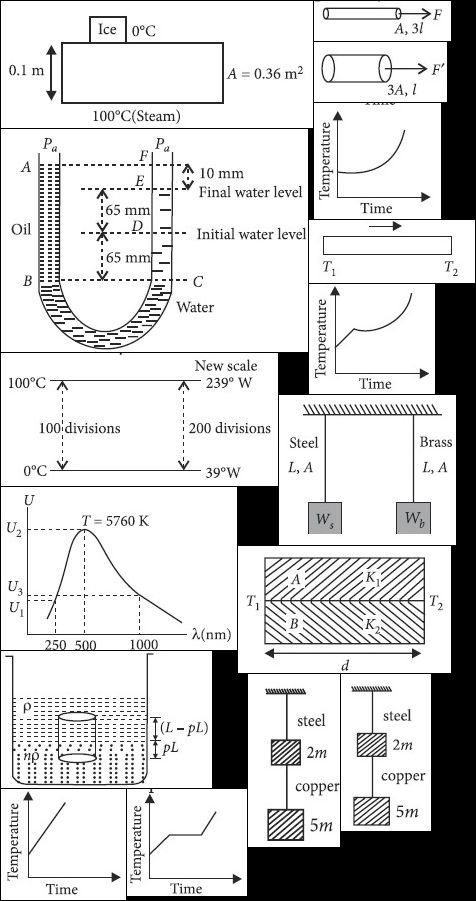
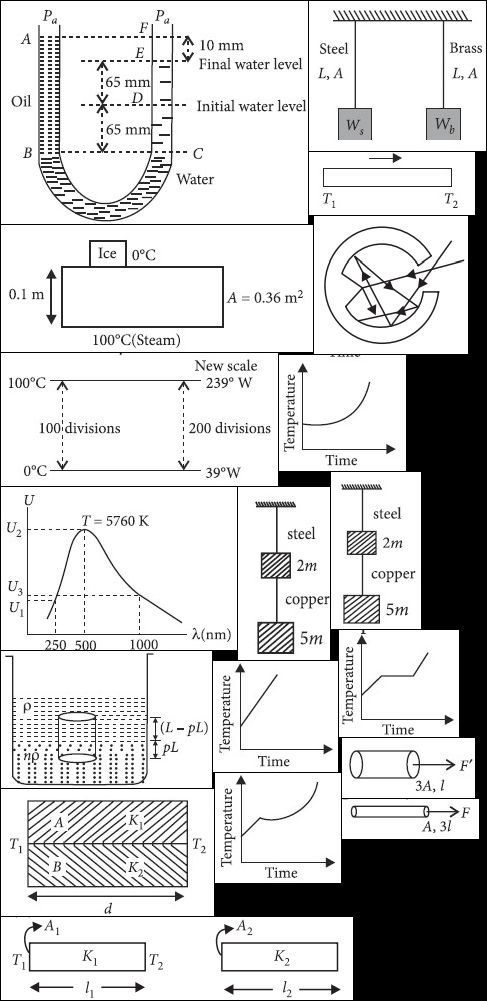
NEET images added.

diff --git a/img/medical/neet/phchap/ph_xi_ch9.css b/img/medical/neet/phchap/ph_xi_ch9.css
@@ -7,74 +7,89 @@ Responsive: <div class="yourspritesname"></div>
 */
 
 
+.Thermodynamics_17_s {max-width:239px; max-height:202px; }
+.Thermodynamics_17_s::after {content: '\00a0';display: inline-block; width:239px; height:202px; background-position: 0.37037037037037035% 14.882837238758707%;background-size: 212.97071129707112% 881.6831683168317%;background-image: url(ph_xi_ch9.jpg);padding: 0; }
+div.Thermodynamics_17_s::after {max-width:239px; width:100%;height:0;padding: 0 0 84.51882845188284% 0;}
+.Thermodynamics_30_s {max-width:181px; max-height:144px; }
+.Thermodynamics_30_s::after {content: '\00a0';display: inline-block; width:181px; height:144px; background-position: 46.951219512195124% 82.6511912034209%;background-size: 281.21546961325964% 1236.8055555555557%;background-image: url(ph_xi_ch9.jpg);padding: 0; }
+div.Thermodynamics_30_s::after {max-width:181px; width:100%;height:0;padding: 0 0 79.55801104972376% 0;}
+.Thermodynamics_64_s {max-width:193px; max-height:161px; }
+.Thermodynamics_64_s::after {content: '\00a0';display: inline-block; width:193px; height:161px; background-position: 56.64556962025316% 64.50617283950618%;background-size: 263.73056994818654% 1106.2111801242236%;background-image: url(ph_xi_ch9.jpg);padding: 0; }
+div.Thermodynamics_64_s::after {max-width:193px; width:100%;height:0;padding: 0 0 83.41968911917098% 0;}
+.Thermodynamics_75_s {max-width:199px; max-height:179px; }
+.Thermodynamics_75_s::after {content: '\00a0';display: inline-block; width:199px; height:179px; background-position: 77.74193548387096% 21.28589263420724%;background-size: 255.7788944723618% 994.9720670391062%;background-image: url(ph_xi_ch9.jpg);padding: 0; }
+div.Thermodynamics_75_s::after {max-width:199px; width:100%;height:0;padding: 0 0 89.94974874371859% 0;}
+.Thermodynamics_79_q {max-width:181px; max-height:191px; }
+.Thermodynamics_79_q::after {content: '\00a0';display: inline-block; width:181px; height:191px; background-position: 0.3048780487804878% 38.80503144654088%;background-size: 281.21546961325964% 932.4607329842931%;background-image: url(ph_xi_ch9.jpg);padding: 0; }
+div.Thermodynamics_79_q::after {max-width:181px; width:100%;height:0;padding: 0 0 105.52486187845304% 0;}
 .nt_ph_thermodyna_14_sol {max-width:157px; max-height:122px; }
-.nt_ph_thermodyna_14_sol::after {content: '\00a0';display: inline-block; width:157px; height:122px; background-position: 38.17663817663818% 97.14714714714715%;background-size: 323.5668789808917% 1191.8032786885246%;background-image: url(ph_xi_ch9.jpg);padding: 0; }
+.nt_ph_thermodyna_14_sol::after {content: '\00a0';display: inline-block; width:157px; height:122px; background-position: 99.43181818181819% 91.500904159132%;background-size: 324.20382165605093% 1459.8360655737704%;background-image: url(ph_xi_ch9.jpg);padding: 0; }
 div.nt_ph_thermodyna_14_sol::after {max-width:157px; width:100%;height:0;padding: 0 0 77.70700636942675% 0;}
 .nt_ph_thermodyna_17_sol {max-width:273px; max-height:233px; }
-.nt_ph_thermodyna_17_sol::after {content: '\00a0';display: inline-block; width:273px; height:233px; background-position: 0.425531914893617% 0.0819000819000819%;background-size: 186.08058608058607% 624.0343347639486%;background-image: url(ph_xi_ch9.jpg);padding: 0; }
+.nt_ph_thermodyna_17_sol::after {content: '\00a0';display: inline-block; width:273px; height:233px; background-position: 0.423728813559322% 0.06459948320413436%;background-size: 186.44688644688645% 764.3776824034335%;background-image: url(ph_xi_ch9.jpg);padding: 0; }
 div.nt_ph_thermodyna_17_sol::after {max-width:273px; width:100%;height:0;padding: 0 0 85.34798534798534% 0;}
 .nt_ph_thermodyna_21 {max-width:222px; max-height:146px; }
-.nt_ph_thermodyna_21::after {content: '\00a0';display: inline-block; width:222px; height:146px; background-position: 55.24475524475525% 66.13149847094802%;background-size: 228.82882882882882% 995.8904109589041%;background-image: url(ph_xi_ch9.jpg);padding: 0; }
+.nt_ph_thermodyna_21::after {content: '\00a0';display: inline-block; width:222px; height:146px; background-position: 44.250871080139376% 99.93883792048929%;background-size: 229.27927927927928% 1219.86301369863%;background-image: url(ph_xi_ch9.jpg);padding: 0; }
 div.nt_ph_thermodyna_21::after {max-width:222px; width:100%;height:0;padding: 0 0 65.76576576576576% 0;}
 .nt_ph_thermodyna_21_sol {max-width:177px; max-height:177px; }
-.nt_ph_thermodyna_21_sol::after {content: '\00a0';display: inline-block; width:177px; height:177px; background-position: 0.3021148036253776% 46.671887235708695%;background-size: 287.00564971751413% 821.4689265536723%;background-image: url(ph_xi_ch9.jpg);padding: 0; }
+.nt_ph_thermodyna_21_sol::after {content: '\00a0';display: inline-block; width:177px; height:177px; background-position: 0.30120481927710846% 61.78304239401496%;background-size: 287.57062146892656% 1006.2146892655368%;background-image: url(ph_xi_ch9.jpg);padding: 0; }
 div.nt_ph_thermodyna_21_sol::after {max-width:177px; width:100%;height:0;padding: 0 0 100% 0;}
 .nt_ph_thermodyna_22 {max-width:230px; max-height:165px; }
-.nt_ph_thermodyna_22::after {content: '\00a0';display: inline-block; width:230px; height:165px; background-position: 98.92086330935251% 13.576415826221877%;background-size: 220.8695652173913% 881.2121212121212%;background-image: url(ph_xi_ch9.jpg);padding: 0; }
+.nt_ph_thermodyna_22::after {content: '\00a0';display: inline-block; width:230px; height:165px; background-position: 98.5663082437276% 10.82920792079208%;background-size: 221.30434782608697% 1079.3939393939395%;background-image: url(ph_xi_ch9.jpg);padding: 0; }
 div.nt_ph_thermodyna_22::after {max-width:230px; width:100%;height:0;padding: 0 0 71.73913043478261% 0;}
 .nt_ph_thermodyna_22_sol {max-width:212px; max-height:163px; }
-.nt_ph_thermodyna_22_sol::after {content: '\00a0';display: inline-block; width:212px; height:163px; background-position: 60.472972972972975% 54.29899302865995%;background-size: 239.62264150943398% 892.0245398773006%;background-image: url(ph_xi_ch9.jpg);padding: 0; }
+.nt_ph_thermodyna_22_sol::after {content: '\00a0';display: inline-block; width:212px; height:163px; background-position: 60.26936026936027% 54.44993819530284%;background-size: 240.0943396226415% 1092.638036809816%;background-image: url(ph_xi_ch9.jpg);padding: 0; }
 div.nt_ph_thermodyna_22_sol::after {max-width:212px; width:100%;height:0;padding: 0 0 76.88679245283019% 0;}
 .nt_ph_thermodyna_24 {max-width:198px; max-height:178px; }
-.nt_ph_thermodyna_24::after {content: '\00a0';display: inline-block; width:198px; height:178px; background-position: 0.3225806451612903% 18.41692789968652%;background-size: 256.5656565656566% 816.8539325842696%;background-image: url(ph_xi_ch9.jpg);padding: 0; }
+.nt_ph_thermodyna_24::after {content: '\00a0';display: inline-block; width:198px; height:178px; background-position: 0.3215434083601286% 27.323767935121648%;background-size: 257.07070707070704% 1000.561797752809%;background-image: url(ph_xi_ch9.jpg);padding: 0; }
 div.nt_ph_thermodyna_24::after {max-width:198px; width:100%;height:0;padding: 0 0 89.8989898989899% 0;}
 .nt_ph_thermodyna_24_sol {max-width:177px; max-height:181px; }
-.nt_ph_thermodyna_24_sol::after {content: '\00a0';display: inline-block; width:177px; height:181px; background-position: 0.3021148036253776% 32.521602513747055%;background-size: 287.00564971751413% 803.3149171270718%;background-image: url(ph_xi_ch9.jpg);padding: 0; }
+.nt_ph_thermodyna_24_sol::after {content: '\00a0';display: inline-block; width:177px; height:181px; background-position: 0.30120481927710846% 50.5625%;background-size: 287.57062146892656% 983.9779005524862%;background-image: url(ph_xi_ch9.jpg);padding: 0; }
 div.nt_ph_thermodyna_24_sol::after {max-width:177px; width:100%;height:0;padding: 0 0 102.25988700564972% 0;}
 .nt_ph_thermodyna_26 {max-width:172px; max-height:135px; }
-.nt_ph_thermodyna_26::after {content: '\00a0';display: inline-block; width:172px; height:135px; background-position: 96.13095238095238% 90.97801364670205%;background-size: 295.3488372093023% 1077.037037037037%;background-image: url(ph_xi_ch9.jpg);padding: 0; }
+.nt_ph_thermodyna_26::after {content: '\00a0';display: inline-block; width:172px; height:135px; background-position: 99.70326409495549% 83.96111786148238%;background-size: 295.93023255813955% 1319.2592592592594%;background-image: url(ph_xi_ch9.jpg);padding: 0; }
 div.nt_ph_thermodyna_26::after {max-width:172px; width:100%;height:0;padding: 0 0 78.48837209302326% 0;}
 .nt_ph_thermodyna_26_sol {max-width:182px; max-height:145px; }
-.nt_ph_thermodyna_26_sol::after {content: '\00a0';display: inline-block; width:182px; height:145px; background-position: 47.239263803680984% 77.3109243697479%;background-size: 279.1208791208791% 1002.7586206896551%;background-image: url(ph_xi_ch9.jpg);padding: 0; }
+.nt_ph_thermodyna_26_sol::after {content: '\00a0';display: inline-block; width:182px; height:145px; background-position: 48.318042813455655% 73.77750611246944%;background-size: 279.6703296703297% 1228.2758620689656%;background-image: url(ph_xi_ch9.jpg);padding: 0; }
 div.nt_ph_thermodyna_26_sol::after {max-width:182px; width:100%;height:0;padding: 0 0 79.67032967032966% 0;}
 .nt_ph_thermodyna_27 {max-width:311px; max-height:171px; }
-.nt_ph_thermodyna_27::after {content: '\00a0';display: inline-block; width:311px; height:171px; background-position: 90.86294416243655% 41.23148869836321%;background-size: 163.34405144694534% 850.2923976608187%;background-image: url(ph_xi_ch9.jpg);padding: 0; }
+.nt_ph_thermodyna_27::after {content: '\00a0';display: inline-block; width:311px; height:171px; background-position: 92.42424242424242% 44.037267080745345%;background-size: 163.66559485530547% 1041.5204678362572%;background-image: url(ph_xi_ch9.jpg);padding: 0; }
 div.nt_ph_thermodyna_27::after {max-width:311px; width:100%;height:0;padding: 0 0 54.98392282958199% 0;}
 .nt_ph_thermodyna_27_sol {max-width:305px; max-height:187px; }
-.nt_ph_thermodyna_27_sol::after {content: '\00a0';display: inline-block; width:305px; height:187px; background-position: 98.52216748768473% 26.91397000789266%;background-size: 166.55737704918033% 777.5401069518716%;background-image: url(ph_xi_ch9.jpg);padding: 0; }
+.nt_ph_thermodyna_27_sol::after {content: '\00a0';display: inline-block; width:305px; height:187px; background-position: 98.03921568627452% 32.68506900878294%;background-size: 166.88524590163934% 952.4064171122994%;background-image: url(ph_xi_ch9.jpg);padding: 0; }
 div.nt_ph_thermodyna_27_sol::after {max-width:305px; width:100%;height:0;padding: 0 0 61.31147540983606% 0;}
 .nt_ph_thermodyna_30 {max-width:178px; max-height:135px; }
-.nt_ph_thermodyna_30::after {content: '\00a0';display: inline-block; width:178px; height:135px; background-position: 43.63636363636363% 87.79378316906748%;background-size: 285.39325842696627% 1077.037037037037%;background-image: url(ph_xi_ch9.jpg);padding: 0; }
+.nt_ph_thermodyna_30::after {content: '\00a0';display: inline-block; width:178px; height:135px; background-position: 43.50453172205438% 91.00850546780073%;background-size: 285.9550561797753% 1319.2592592592594%;background-image: url(ph_xi_ch9.jpg);padding: 0; }
 div.nt_ph_thermodyna_30::after {max-width:178px; width:100%;height:0;padding: 0 0 75.84269662921348% 0;}
 .nt_ph_thermodyna_30_sol {max-width:167px; max-height:136px; }
-.nt_ph_thermodyna_30_sol::after {content: '\00a0';display: inline-block; width:167px; height:136px; background-position: 98.82697947214076% 80.6525037936267%;background-size: 304.19161676646706% 1069.1176470588234%;background-image: url(ph_xi_ch9.jpg);padding: 0; }
+.nt_ph_thermodyna_30_sol::after {content: '\00a0';display: inline-block; width:167px; height:136px; background-position: 99.70760233918129% 75.6838905775076%;background-size: 304.79041916167665% 1309.5588235294117%;background-image: url(ph_xi_ch9.jpg);padding: 0; }
 div.nt_ph_thermodyna_30_sol::after {max-width:167px; width:100%;height:0;padding: 0 0 81.437125748503% 0;}
 .nt_ph_thermodyna_34 {max-width:156px; max-height:162px; }
-.nt_ph_thermodyna_34::after {content: '\00a0';display: inline-block; width:156px; height:162px; background-position: 0.2840909090909091% 59.907120743034056%;background-size: 325.64102564102564% 897.5308641975308%;background-image: url(ph_xi_ch9.jpg);padding: 0; }
+.nt_ph_thermodyna_34::after {content: '\00a0';display: inline-block; width:156px; height:162px; background-position: 0.28328611898017% 72.20506485484867%;background-size: 326.28205128205127% 1099.3827160493827%;background-image: url(ph_xi_ch9.jpg);padding: 0; }
 div.nt_ph_thermodyna_34::after {max-width:156px; width:100%;height:0;padding: 0 0 103.84615384615384% 0;}
 .nt_ph_thermodyna_34_sol {max-width:142px; max-height:143px; }
-.nt_ph_thermodyna_34_sol::after {content: '\00a0';display: inline-block; width:142px; height:143px; background-position: 0.273224043715847% 82.22730739893211%;background-size: 357.7464788732394% 1016.7832167832167%;background-image: url(ph_xi_ch9.jpg);padding: 0; }
+.nt_ph_thermodyna_34_sol::after {content: '\00a0';display: inline-block; width:142px; height:143px; background-position: 0.2724795640326976% 89.92673992673993%;background-size: 358.4507042253521% 1245.4545454545455%;background-image: url(ph_xi_ch9.jpg);padding: 0; }
 div.nt_ph_thermodyna_34_sol::after {max-width:142px; width:100%;height:0;padding: 0 0 100.70422535211267% 0;}
 .nt_ph_thermodyna_35a {max-width:123px; max-height:117px; }
-.nt_ph_thermodyna_35a::after {content: '\00a0';display: inline-block; width:123px; height:117px; background-position: 75.84415584415585% 99.92520568436798%;background-size: 413.0081300813008% 1242.7350427350427%;background-image: url(ph_xi_ch9.jpg);padding: 0; }
+.nt_ph_thermodyna_35a::after {content: '\00a0';display: inline-block; width:123px; height:117px; background-position: 90.67357512953367% 98.61778846153847%;background-size: 413.8211382113821% 1522.2222222222222%;background-image: url(ph_xi_ch9.jpg);padding: 0; }
 div.nt_ph_thermodyna_35a::after {max-width:123px; width:100%;height:0;padding: 0 0 95.1219512195122% 0;}
 .nt_ph_thermodyna_35b {max-width:111px; max-height:122px; }
-.nt_ph_thermodyna_35b::after {content: '\00a0';display: inline-block; width:111px; height:122px; background-position: 98.74055415617129% 52.627627627627625%;background-size: 457.65765765765764% 1191.8032786885246%;background-image: url(ph_xi_ch9.jpg);padding: 0; }
+.nt_ph_thermodyna_35b::after {content: '\00a0';display: inline-block; width:111px; height:122px; background-position: 98.49246231155779% 53.104279686558165%;background-size: 458.55855855855856% 1459.8360655737704%;background-image: url(ph_xi_ch9.jpg);padding: 0; }
 div.nt_ph_thermodyna_35b::after {max-width:111px; width:100%;height:0;padding: 0 0 109.90990990990991% 0;}
 .nt_ph_thermodyna_35c {max-width:115px; max-height:117px; }
-.nt_ph_thermodyna_35c::after {content: '\00a0';display: inline-block; width:115px; height:117px; background-position: 99.74554707379134% 61.63051608077786%;background-size: 441.7391304347826% 1242.7350427350427%;background-image: url(ph_xi_ch9.jpg);padding: 0; }
+.nt_ph_thermodyna_35c::after {content: '\00a0';display: inline-block; width:115px; height:117px; background-position: 99.49238578680203% 60.33653846153846%;background-size: 442.60869565217394% 1522.2222222222222%;background-image: url(ph_xi_ch9.jpg);padding: 0; }
 div.nt_ph_thermodyna_35c::after {max-width:115px; width:100%;height:0;padding: 0 0 101.73913043478261% 0;}
 .nt_ph_thermodyna_35d {max-width:125px; max-height:120px; }
-.nt_ph_thermodyna_35d::after {content: '\00a0';display: inline-block; width:125px; height:120px; background-position: 99.47780678851174% 70.61469265367316%;background-size: 406.4% 1211.6666666666667%;background-image: url(ph_xi_ch9.jpg);padding: 0; }
+.nt_ph_thermodyna_35d::after {content: '\00a0';display: inline-block; width:125px; height:120px; background-position: 0.2604166666666667% 97.35099337748345%;background-size: 407.2% 1484.1666666666667%;background-image: url(ph_xi_ch9.jpg);padding: 0; }
 div.nt_ph_thermodyna_35d::after {max-width:125px; width:100%;height:0;padding: 0 0 96% 0;}
 .nt_ph_thermodyna_36 {max-width:152px; max-height:140px; }
-.nt_ph_thermodyna_36::after {content: '\00a0';display: inline-block; width:152px; height:140px; background-position: 0.2808988764044944% 71.3089802130898%;background-size: 334.2105263157895% 1038.5714285714287%;background-image: url(ph_xi_ch9.jpg);padding: 0; }
+.nt_ph_thermodyna_36::after {content: '\00a0';display: inline-block; width:152px; height:140px; background-position: 0.2801120448179272% 81.17001828153565%;background-size: 334.86842105263156% 1272.142857142857%;background-image: url(ph_xi_ch9.jpg);padding: 0; }
 div.nt_ph_thermodyna_36::after {max-width:152px; width:100%;height:0;padding: 0 0 92.10526315789474% 0;}
 .nt_ph_thermodyna_5 {max-width:132px; max-height:122px; }
-.nt_ph_thermodyna_5::after {content: '\00a0';display: inline-block; width:132px; height:122px; background-position: 0.26595744680851063% 91.74174174174175%;background-size: 384.8484848484849% 1191.8032786885246%;background-image: url(ph_xi_ch9.jpg);padding: 0; }
+.nt_ph_thermodyna_5::after {content: '\00a0';display: inline-block; width:132px; height:122px; background-position: 98.93899204244032% 67.63110307414105%;background-size: 385.6060606060606% 1459.8360655737704%;background-image: url(ph_xi_ch9.jpg);padding: 0; }
 div.nt_ph_thermodyna_5::after {max-width:132px; width:100%;height:0;padding: 0 0 92.42424242424242% 0;}
 .nt_ph_thermodyna_8 {max-width:231px; max-height:173px; }
-.nt_ph_thermodyna_8::after {content: '\00a0';display: inline-block; width:231px; height:173px; background-position: 99.27797833935018% 0.078064012490242%;background-size: 219.91341991341992% 840.4624277456647%;background-image: url(ph_xi_ch9.jpg);padding: 0; }
+.nt_ph_thermodyna_8::after {content: '\00a0';display: inline-block; width:231px; height:173px; background-position: 98.92086330935251% 0.06218905472636816%;background-size: 220.34632034632034% 1029.4797687861271%;background-image: url(ph_xi_ch9.jpg);padding: 0; }
 div.nt_ph_thermodyna_8::after {max-width:231px; width:100%;height:0;padding: 0 0 74.89177489177489% 0;}
 
-/* $TexturePacker:SmartUpdate:9e34a2ed228e762dc33110a277b67347:e5d080bda3b266668cb783eddbc1c0b4:ce2b3bc1b8a21ba655383df3aef6835f$ */
+/* $TexturePacker:SmartUpdate:bfd0751537ff99cddcda55aa23b79e06:4d9d7867e849910a01fe2be19a704f5d:ce2b3bc1b8a21ba655383df3aef6835f$ */

diff --git a/img/medical/neet/phchap/ph_xi_ch8.css b/img/medical/neet/phchap/ph_xi_ch8.css
@@ -7,53 +7,59 @@ Responsive: <div class="yourspritesname"></div>
 */
 
 
+.Pro_Mat_55_s {max-width:352px; max-height:83px; }
+.Pro_Mat_55_s::after {content: '\00a0';display: inline-block; width:352px; height:83px; background-position: 0.7407407407407407% 99.89106753812636%;background-size: 138.35227272727272% 1206.0240963855422%;background-image: url(ph_xi_ch8.jpg);padding: 0; }
+div.Pro_Mat_55_s::after {max-width:352px; width:100%;height:0;padding: 0 0 23.579545454545453% 0;}
+.Pro_Mat_57_s {max-width:154px; max-height:138px; }
+.Pro_Mat_57_s::after {content: '\00a0';display: inline-block; width:154px; height:138px; background-position: 94.29429429429429% 25.02896871378911%;background-size: 316.23376623376623% 725.3623188405797%;background-image: url(ph_xi_ch8.jpg);padding: 0; }
+div.Pro_Mat_57_s::after {max-width:154px; width:100%;height:0;padding: 0 0 89.6103896103896% 0;}
 .nt_ph_prop_mat_10 {max-width:213px; max-height:127px; }
-.nt_ph_prop_mat_10::after {content: '\00a0';display: inline-block; width:213px; height:127px; background-position: 90.49429657794677% 70.54263565891473%;background-size: 223.47417840375587% 709.4488188976378%;background-image: url(ph_xi_ch8.jpg);padding: 0; }
+.nt_ph_prop_mat_10::after {content: '\00a0';display: inline-block; width:213px; height:127px; background-position: 0.36496350364963503% 90.2745995423341%;background-size: 228.63849765258215% 788.1889763779527%;background-image: url(ph_xi_ch8.jpg);padding: 0; }
 div.nt_ph_prop_mat_10::after {max-width:213px; width:100%;height:0;padding: 0 0 59.624413145539904% 0;}
 .nt_ph_prop_mat_12 {max-width:307px; max-height:223px; }
-.nt_ph_prop_mat_12::after {content: '\00a0';display: inline-block; width:307px; height:223px; background-position: 0.591715976331361% 19.02654867256637%;background-size: 155.04885993485343% 404.0358744394619%;background-image: url(ph_xi_ch8.jpg);padding: 0; }
+.nt_ph_prop_mat_12::after {content: '\00a0';display: inline-block; width:307px; height:223px; background-position: 0.5555555555555556% 0.12853470437017994%;background-size: 158.63192182410424% 448.8789237668162%;background-image: url(ph_xi_ch8.jpg);padding: 0; }
 div.nt_ph_prop_mat_12::after {max-width:307px; width:100%;height:0;padding: 0 0 72.63843648208469% 0;}
 .nt_ph_prop_mat_20_sol {max-width:236px; max-height:163px; }
-.nt_ph_prop_mat_20_sol::after {content: '\00a0';display: inline-block; width:236px; height:163px; background-position: 0.4166666666666667% 65.98915989159892%;background-size: 201.6949152542373% 552.760736196319%;background-image: url(ph_xi_ch8.jpg);padding: 0; }
+.nt_ph_prop_mat_20_sol::after {content: '\00a0';display: inline-block; width:236px; height:163px; background-position: 0.398406374501992% 58.114558472553696%;background-size: 206.35593220338984% 614.1104294478528%;background-image: url(ph_xi_ch8.jpg);padding: 0; }
 div.nt_ph_prop_mat_20_sol::after {max-width:236px; width:100%;height:0;padding: 0 0 69.0677966101695% 0;}
 .nt_ph_prop_mat_21_sol {max-width:211px; max-height:137px; }
-.nt_ph_prop_mat_21_sol::after {content: '\00a0';display: inline-block; width:211px; height:137px; background-position: 0.37735849056603776% 85.20942408376963%;background-size: 225.59241706161137% 657.6642335766423%;background-image: url(ph_xi_ch8.jpg);padding: 0; }
+.nt_ph_prop_mat_21_sol::after {content: '\00a0';display: inline-block; width:211px; height:137px; background-position: 0.36231884057971014% 75.34722222222223%;background-size: 230.80568720379148% 730.6569343065694%;background-image: url(ph_xi_ch8.jpg);padding: 0; }
 div.nt_ph_prop_mat_21_sol::after {max-width:211px; width:100%;height:0;padding: 0 0 64.92890995260663% 0;}
 .nt_ph_prop_mat_25_sol {max-width:177px; max-height:150px; }
-.nt_ph_prop_mat_25_sol::after {content: '\00a0';display: inline-block; width:177px; height:150px; background-position: 93.31103678929766% 52.5965379494008%;background-size: 268.9265536723164% 600.6666666666666%;background-image: url(ph_xi_ch8.jpg);padding: 0; }
+.nt_ph_prop_mat_25_sol::after {content: '\00a0';display: inline-block; width:177px; height:150px; background-position: 99.6774193548387% 0.11750881316098707%;background-size: 275.1412429378531% 667.3333333333334%;background-image: url(ph_xi_ch8.jpg);padding: 0; }
 div.nt_ph_prop_mat_25_sol::after {max-width:177px; width:100%;height:0;padding: 0 0 84.7457627118644% 0;}
 .nt_ph_prop_mat_36 {max-width:90px; max-height:157px; }
-.nt_ph_prop_mat_36::after {content: '\00a0';display: inline-block; width:90px; height:157px; background-position: 88.34196891191709% 90.59139784946237%;background-size: 528.8888888888889% 573.8853503184713%;background-image: url(ph_xi_ch8.jpg);padding: 0; }
+.nt_ph_prop_mat_36::after {content: '\00a0';display: inline-block; width:90px; height:157px; background-position: 83.37531486146096% 55.92417061611374%;background-size: 541.1111111111111% 637.5796178343949%;background-image: url(ph_xi_ch8.jpg);padding: 0; }
 div.nt_ph_prop_mat_36::after {max-width:90px; width:100%;height:0;padding: 0 0 174.44444444444446% 0;}
 .nt_ph_prop_mat_36_sol {max-width:92px; max-height:173px; }
-.nt_ph_prop_mat_36_sol::after {content: '\00a0';display: inline-block; width:92px; height:173px; background-position: 64.58333333333333% 92.58241758241758%;background-size: 517.3913043478261% 520.8092485549133%;background-image: url(ph_xi_ch8.jpg);padding: 0; }
+.nt_ph_prop_mat_36_sol::after {content: '\00a0';display: inline-block; width:92px; height:173px; background-position: 60.25316455696203% 58.81642512077295%;background-size: 529.3478260869565% 578.6127167630058%;background-image: url(ph_xi_ch8.jpg);padding: 0; }
 div.nt_ph_prop_mat_36_sol::after {max-width:92px; width:100%;height:0;padding: 0 0 188.04347826086956% 0;}
 .nt_ph_prop_mat_41a {max-width:120px; max-height:107px; }
-.nt_ph_prop_mat_41a::after {content: '\00a0';display: inline-block; width:120px; height:107px; background-position: 35.674157303370784% 99.37027707808564%;background-size: 396.6666666666667% 842.0560747663551%;background-image: url(ph_xi_ch8.jpg);padding: 0; }
+.nt_ph_prop_mat_41a::after {content: '\00a0';display: inline-block; width:120px; height:107px; background-position: 92.37057220708446% 70.46979865771812%;background-size: 405.8333333333333% 935.5140186915888%;background-image: url(ph_xi_ch8.jpg);padding: 0; }
 div.nt_ph_prop_mat_41a::after {max-width:120px; width:100%;height:0;padding: 0 0 89.16666666666667% 0;}
 .nt_ph_prop_mat_41b {max-width:126px; max-height:110px; }
-.nt_ph_prop_mat_41b::after {content: '\00a0';display: inline-block; width:126px; height:110px; background-position: 88.28571428571429% 35.903919089759796%;background-size: 377.77777777777777% 819.0909090909091%;background-image: url(ph_xi_ch8.jpg);padding: 0; }
+.nt_ph_prop_mat_41b::after {content: '\00a0';display: inline-block; width:126px; height:110px; background-position: 59.556786703601105% 86.75645342312009%;background-size: 386.5079365079365% 910%;background-image: url(ph_xi_ch8.jpg);padding: 0; }
 div.nt_ph_prop_mat_41b::after {max-width:126px; width:100%;height:0;padding: 0 0 87.3015873015873% 0;}
 .nt_ph_prop_mat_41c {max-width:125px; max-height:111px; }
-.nt_ph_prop_mat_41c::after {content: '\00a0';display: inline-block; width:125px; height:111px; background-position: 0.2849002849002849% 99.87341772151899%;background-size: 380.8% 811.7117117117117%;background-image: url(ph_xi_ch8.jpg);padding: 0; }
+.nt_ph_prop_mat_41c::after {content: '\00a0';display: inline-block; width:125px; height:111px; background-position: 58.83977900552486% 74.26966292134831%;background-size: 389.6% 901.8018018018018%;background-image: url(ph_xi_ch8.jpg);padding: 0; }
 div.nt_ph_prop_mat_41c::after {max-width:125px; width:100%;height:0;padding: 0 0 88.8% 0;}
 .nt_ph_prop_mat_41d {max-width:127px; max-height:116px; }
-.nt_ph_prop_mat_41d::after {content: '\00a0';display: inline-block; width:127px; height:116px; background-position: 89.97134670487107% 13.121019108280255%;background-size: 374.8031496062992% 776.7241379310345%;background-image: url(ph_xi_ch8.jpg);padding: 0; }
+.nt_ph_prop_mat_41d::after {content: '\00a0';display: inline-block; width:127px; height:116px; background-position: 77.5% 40.112994350282484%;background-size: 383.46456692913387% 862.9310344827586%;background-image: url(ph_xi_ch8.jpg);padding: 0; }
 div.nt_ph_prop_mat_41d::after {max-width:127px; width:100%;height:0;padding: 0 0 91.33858267716535% 0;}
 .nt_ph_prop_mat_42_sol {max-width:312px; max-height:127px; }
-.nt_ph_prop_mat_42_sol::after {content: '\00a0';display: inline-block; width:312px; height:127px; background-position: 0.6097560975609756% 0.12919896640826872%;background-size: 152.56410256410257% 709.4488188976378%;background-image: url(ph_xi_ch8.jpg);padding: 0; }
+.nt_ph_prop_mat_42_sol::after {content: '\00a0';display: inline-block; width:312px; height:127px; background-position: 0.5714285714285714% 25.74370709382151%;background-size: 156.0897435897436% 788.1889763779527%;background-image: url(ph_xi_ch8.jpg);padding: 0; }
 div.nt_ph_prop_mat_42_sol::after {max-width:312px; width:100%;height:0;padding: 0 0 40.705128205128204% 0;}
 .nt_ph_prop_mat_47_sol {max-width:166px; max-height:63px; }
-.nt_ph_prop_mat_47_sol::after {content: '\00a0';display: inline-block; width:166px; height:63px; background-position: 99.6774193548387% 26.252983293556085%;background-size: 286.7469879518072% 1430.1587301587301%;background-image: url(ph_xi_ch8.jpg);padding: 0; }
+.nt_ph_prop_mat_47_sol::after {content: '\00a0';display: inline-block; width:166px; height:63px; background-position: 96.26168224299066% 16.204690831556505%;background-size: 293.3734939759036% 1588.888888888889%;background-image: url(ph_xi_ch8.jpg);padding: 0; }
 div.nt_ph_prop_mat_47_sol::after {max-width:166px; width:100%;height:0;padding: 0 0 37.95180722891566% 0;}
 .nt_ph_prop_mat_48_sol {max-width:277px; max-height:133px; }
-.nt_ph_prop_mat_48_sol::after {content: '\00a0';display: inline-block; width:277px; height:133px; background-position: 0.5025125628140703% 45.963541666666664%;background-size: 171.84115523465704% 677.4436090225564%;background-image: url(ph_xi_ch8.jpg);padding: 0; }
+.nt_ph_prop_mat_48_sol::after {content: '\00a0';display: inline-block; width:277px; height:133px; background-position: 0.47619047619047616% 40.66820276497696%;background-size: 175.81227436823104% 752.6315789473684%;background-image: url(ph_xi_ch8.jpg);padding: 0; }
 div.nt_ph_prop_mat_48_sol::after {max-width:277px; width:100%;height:0;padding: 0 0 48.014440433213% 0;}
 .nt_ph_prop_mat_8_sol_a {max-width:137px; max-height:40px; }
-.nt_ph_prop_mat_8_sol_a::after {content: '\00a0';display: inline-block; width:137px; height:40px; background-position: 92.62536873156343% 0.11614401858304298%;background-size: 347.44525547445255% 2252.5%;background-image: url(ph_xi_ch8.jpg);padding: 0; }
+.nt_ph_prop_mat_8_sol_a::after {content: '\00a0';display: inline-block; width:137px; height:40px; background-position: 97.71428571428571% 83.14255983350677%;background-size: 355.4744525547445% 2502.5%;background-image: url(ph_xi_ch8.jpg);padding: 0; }
 div.nt_ph_prop_mat_8_sol_a::after {max-width:137px; width:100%;height:0;padding: 0 0 29.197080291970803% 0;}
 .nt_ph_prop_mat_8_sol_b {max-width:133px; max-height:60px; }
-.nt_ph_prop_mat_8_sol_b::after {content: '\00a0';display: inline-block; width:133px; height:60px; background-position: 91.54518950437318% 4.9940546967895365%;background-size: 357.89473684210526% 1501.6666666666667%;background-image: url(ph_xi_ch8.jpg);padding: 0; }
+.nt_ph_prop_mat_8_sol_b::after {content: '\00a0';display: inline-block; width:133px; height:60px; background-position: 96.61016949152543% 78.42720510095643%;background-size: 366.16541353383457% 1668.3333333333333%;background-image: url(ph_xi_ch8.jpg);padding: 0; }
 div.nt_ph_prop_mat_8_sol_b::after {max-width:133px; width:100%;height:0;padding: 0 0 45.11278195488722% 0;}
 
-/* $TexturePacker:SmartUpdate:01857799d80c5f619b554610bb6e3d09:5506af4ad37979b8f7e73103504736e9:8926c8c5cb7d128d995948f0b0efea46$ */
+/* $TexturePacker:SmartUpdate:34ea61421233f557e09e313855ea92f7:4fc8bc2a3dafca62fb2bedd631a84162:8926c8c5cb7d128d995948f0b0efea46$ */

diff --git a/img/medical/neet/phchap/ph_xi_ch10.css b/img/medical/neet/phchap/ph_xi_ch10.css
@@ -1,0 +1,59 @@
+/*
+-------------------------------------------------------------------
+Created with TexturePacker https://www.codeandweb.com/texturepacker
+-------------------------------------------------------------------
+Inline:     <i class="yourspritesname"></i>
+Responsive: <div class="yourspritesname"></div>
+*/
+
+
+.Oscillations_14_s {max-width:378px; max-height:174px; }
+.Oscillations_14_s::after {content: '\00a0';display: inline-block; width:378px; height:174px; background-position: 57.09281961471103% 0.3184713375796178%;background-size: 251.05820105820106% 280.4597701149425%;background-image: url(ph_xi_ch10.jpg);padding: 0; }
+div.Oscillations_14_s::after {max-width:378px; width:100%;height:0;padding: 0 0 46.03174603174603% 0;}
+.Oscillations_21_q {max-width:122px; max-height:177px; }
+.Oscillations_21_q::after {content: '\00a0';display: inline-block; width:122px; height:177px; background-position: 32.769044740024185% 61.41479099678457%;background-size: 777.8688524590164% 275.70621468926555%;background-image: url(ph_xi_ch10.jpg);padding: 0; }
+div.Oscillations_21_q::after {max-width:122px; width:100%;height:0;padding: 0 0 145.08196721311475% 0;}
+.Oscillations_21_s {max-width:370px; max-height:118px; }
+.Oscillations_21_s::after {content: '\00a0';display: inline-block; width:370px; height:118px; background-position: 53.02245250431779% 99.72972972972973%;background-size: 256.4864864864865% 413.5593220338983%;background-image: url(ph_xi_ch10.jpg);padding: 0; }
+div.Oscillations_21_s::after {max-width:370px; width:100%;height:0;padding: 0 0 31.89189189189189% 0;}
+.Oscillations_24_s {max-width:223px; max-height:105px; }
+.Oscillations_24_s::after {content: '\00a0';display: inline-block; width:223px; height:105px; background-position: 97.10743801652893% 0.26109660574412535%;background-size: 425.56053811659194% 464.76190476190476%;background-image: url(ph_xi_ch10.jpg);padding: 0; }
+div.Oscillations_24_s::after {max-width:223px; width:100%;height:0;padding: 0 0 47.08520179372197% 0;}
+.Oscillations_28_s {max-width:183px; max-height:203px; }
+.Oscillations_28_s::after {content: '\00a0';display: inline-block; width:183px; height:203px; background-position: 0.13054830287206268% 0.3508771929824561%;background-size: 518.5792349726776% 240.39408866995075%;background-image: url(ph_xi_ch10.jpg);padding: 0; }
+div.Oscillations_28_s::after {max-width:183px; width:100%;height:0;padding: 0 0 110.92896174863388% 0;}
+.Oscillations_30_o_1 {max-width:122px; max-height:81px; }
+.Oscillations_30_o_1::after {content: '\00a0';display: inline-block; width:122px; height:81px; background-position: 57.43651753325272% 69.28746928746929%;background-size: 777.8688524590164% 602.4691358024692%;background-image: url(ph_xi_ch10.jpg);padding: 0; }
+div.Oscillations_30_o_1::after {max-width:122px; width:100%;height:0;padding: 0 0 66.39344262295081% 0;}
+.Oscillations_30_o_2 {max-width:103px; max-height:84px; }
+.Oscillations_30_o_2::after {content: '\00a0';display: inline-block; width:103px; height:84px; background-position: 96.21749408983452% 98.76237623762377%;background-size: 921.3592233009708% 580.952380952381%;background-image: url(ph_xi_ch10.jpg);padding: 0; }
+div.Oscillations_30_o_2::after {max-width:103px; width:100%;height:0;padding: 0 0 81.55339805825243% 0;}
+.Oscillations_30_o_3 {max-width:134px; max-height:70px; }
+.Oscillations_30_o_3::after {content: '\00a0';display: inline-block; width:134px; height:70px; background-position: 99.87730061349693% 78.4688995215311%;background-size: 708.2089552238806% 697.1428571428571%;background-image: url(ph_xi_ch10.jpg);padding: 0; }
+div.Oscillations_30_o_3::after {max-width:134px; width:100%;height:0;padding: 0 0 52.23880597014925% 0;}
+.Oscillations_30_o_4 {max-width:123px; max-height:65px; }
+.Oscillations_30_o_4::after {content: '\00a0';display: inline-block; width:123px; height:65px; background-position: 85.35108958837772% 25.29550827423168%;background-size: 771.5447154471544% 750.7692307692307%;background-image: url(ph_xi_ch10.jpg);padding: 0; }
+div.Oscillations_30_o_4::after {max-width:123px; width:100%;height:0;padding: 0 0 52.84552845528455% 0;}
+.Oscillations_33_s {max-width:305px; max-height:85px; }
+.Oscillations_33_s::after {content: '\00a0';display: inline-block; width:305px; height:85px; background-position: 0.15527950310559005% 99.0074441687345%;background-size: 311.1475409836066% 574.1176470588235%;background-image: url(ph_xi_ch10.jpg);padding: 0; }
+div.Oscillations_33_s::after {max-width:305px; width:100%;height:0;padding: 0 0 27.868852459016395% 0;}
+.Oscillations_35_q {max-width:135px; max-height:149px; }
+.Oscillations_35_q::after {content: '\00a0';display: inline-block; width:135px; height:149px; background-position: 83.29238329238329% 96.7551622418879%;background-size: 702.9629629629629% 327.51677852348996%;background-image: url(ph_xi_ch10.jpg);padding: 0; }
+div.Oscillations_35_q::after {max-width:135px; width:100%;height:0;padding: 0 0 110.37037037037037% 0;}
+.Oscillations_35_s {max-width:80px; max-height:172px; }
+.Oscillations_35_s::after {content: '\00a0';display: inline-block; width:80px; height:172px; background-position: 45.339470655926355% 55.69620253164557%;background-size: 1186.25% 283.72093023255815%;background-image: url(ph_xi_ch10.jpg);padding: 0; }
+div.Oscillations_35_s::after {max-width:80px; width:100%;height:0;padding: 0 0 215% 0;}
+.Oscillations_35_s_1 {max-width:266px; max-height:151px; }
+.Oscillations_35_s_1::after {content: '\00a0';display: inline-block; width:266px; height:151px; background-position: 99.26793557833089% 52.225519287833826%;background-size: 356.76691729323306% 323.1788079470199%;background-image: url(ph_xi_ch10.jpg);padding: 0; }
+div.Oscillations_35_s_1::after {max-width:266px; width:100%;height:0;padding: 0 0 56.766917293233085% 0;}
+.Oscillations_38_s {max-width:140px; max-height:189px; }
+.Oscillations_38_s::after {content: '\00a0';display: inline-block; width:140px; height:189px; background-position: 22.867737948084056% 0.33444816053511706%;background-size: 677.8571428571429% 258.2010582010582%;background-image: url(ph_xi_ch10.jpg);padding: 0; }
+div.Oscillations_38_s::after {max-width:140px; width:100%;height:0;padding: 0 0 135% 0;}
+.Oscillations_45_q {max-width:269px; max-height:193px; }
+.Oscillations_45_q::after {content: '\00a0';display: inline-block; width:269px; height:193px; background-position: 0.14705882352941177% 69.49152542372882%;background-size: 352.7881040892193% 252.84974093264248%;background-image: url(ph_xi_ch10.jpg);padding: 0; }
+div.Oscillations_45_q::after {max-width:269px; width:100%;height:0;padding: 0 0 71.74721189591078% 0;}
+.Oscillations_47_q {max-width:181px; max-height:105px; }
+.Oscillations_47_q::after {content: '\00a0';display: inline-block; width:181px; height:105px; background-position: 61.848958333333336% 45.95300261096606%;background-size: 524.3093922651934% 464.76190476190476%;background-image: url(ph_xi_ch10.jpg);padding: 0; }
+div.Oscillations_47_q::after {max-width:181px; width:100%;height:0;padding: 0 0 58.011049723756905% 0;}
+
+/* $TexturePacker:SmartUpdate:97a96e04508468c978765585f4a4f4e9:d9c2013fc12552bb578d541e76258a34:37e11ad9e2be15d392c01e4b113eb268$ */

diff --git a/img/medical/neet/phchap/ph_xi_ch11.css b/img/medical/neet/phchap/ph_xi_ch11.css
@@ -1,0 +1,29 @@
+/*
+-------------------------------------------------------------------
+Created with TexturePacker https://www.codeandweb.com/texturepacker
+-------------------------------------------------------------------
+Inline:     <i class="yourspritesname"></i>
+Responsive: <div class="yourspritesname"></div>
+*/
+
+
+.Waves_20_s {max-width:320px; max-height:116px; }
+.Waves_20_s::after {content: '\00a0';display: inline-block; width:320px; height:116px; background-position: 4.761904761904762% 46.2962962962963%;background-size: 106.5625% 612.0689655172414%;background-image: url(ph_xi_ch11.jpg);padding: 0; }
+div.Waves_20_s::after {max-width:320px; width:100%;height:0;padding: 0 0 36.25% 0;}
+.Waves_21_s {max-width:217px; max-height:97px; }
+.Waves_21_s::after {content: '\00a0';display: inline-block; width:217px; height:97px; background-position: 0.8064516129032258% 99.836867862969%;background-size: 157.14285714285714% 731.9587628865979%;background-image: url(ph_xi_ch11.jpg);padding: 0; }
+div.Waves_21_s::after {max-width:217px; width:100%;height:0;padding: 0 0 44.70046082949309% 0;}
+.Waves_30_s {max-width:339px; max-height:191px; }
+.Waves_30_s::after {content: '\00a0';display: inline-block; width:339px; height:191px; background-position: 50% 0.1926782273603083%;background-size: 100.58997050147492% 371.72774869109946%;background-image: url(ph_xi_ch11.jpg);padding: 0; }
+div.Waves_30_s::after {max-width:339px; width:100%;height:0;padding: 0 0 56.342182890855455% 0;}
+.Waves_46_s {max-width:302px; max-height:155px; }
+.Waves_46_s::after {content: '\00a0';display: inline-block; width:302px; height:155px; background-position: 2.5641025641025643% 82.16216216216216%;background-size: 112.91390728476821% 458.06451612903226%;background-image: url(ph_xi_ch11.jpg);padding: 0; }
+div.Waves_46_s::after {max-width:302px; width:100%;height:0;padding: 0 0 51.324503311258276% 0;}
+.Waves_57_s {max-width:304px; max-height:63px; }
+.Waves_57_s::after {content: '\00a0';display: inline-block; width:304px; height:63px; background-position: 2.7027027027027026% 60.58732612055641%;background-size: 112.17105263157895% 1126.984126984127%;background-image: url(ph_xi_ch11.jpg);padding: 0; }
+div.Waves_57_s::after {max-width:304px; width:100%;height:0;padding: 0 0 20.723684210526315% 0;}
+.Waves_78_s {max-width:328px; max-height:81px; }
+.Waves_78_s::after {content: '\00a0';display: inline-block; width:328px; height:81px; background-position: 7.6923076923076925% 30.68362480127186%;background-size: 103.96341463414635% 876.5432098765432%;background-image: url(ph_xi_ch11.jpg);padding: 0; }
+div.Waves_78_s::after {max-width:328px; width:100%;height:0;padding: 0 0 24.695121951219512% 0;}
+
+/* $TexturePacker:SmartUpdate:c583a4da3b174f4df6182ca4eea09d03:32db255787d37ca04e8fbbaf8c5faae7:fddcba017602f243a456008707ccd317$ */
